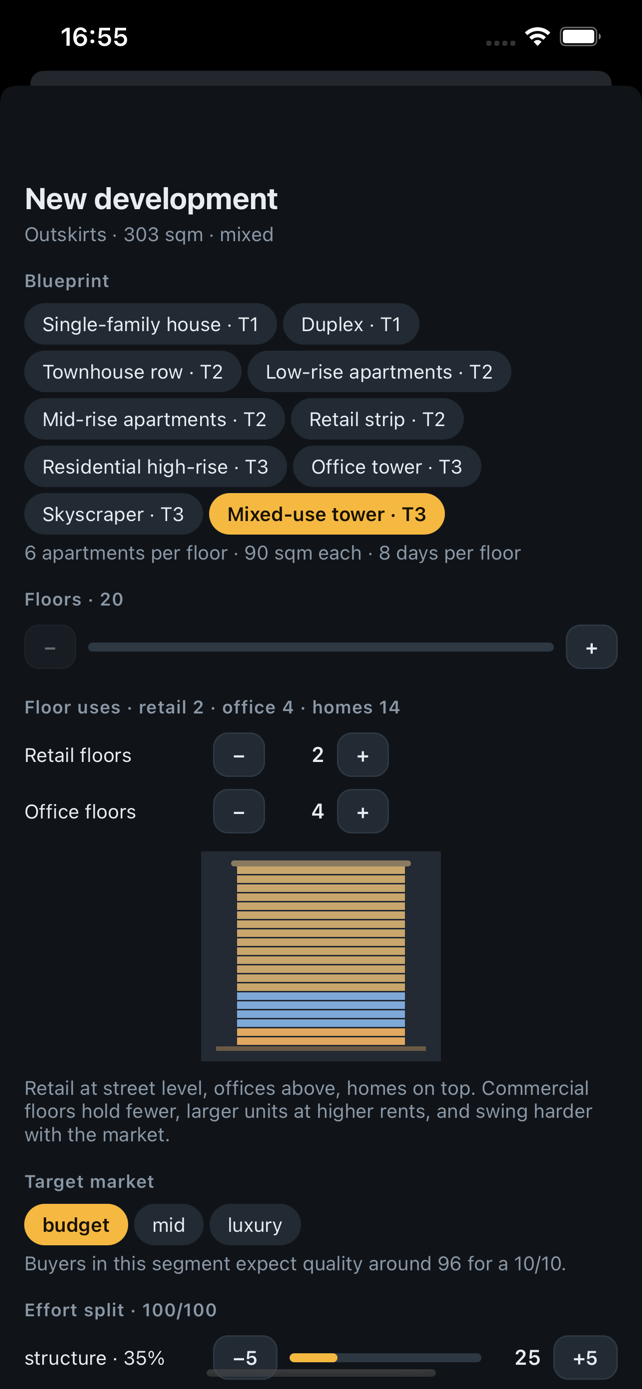
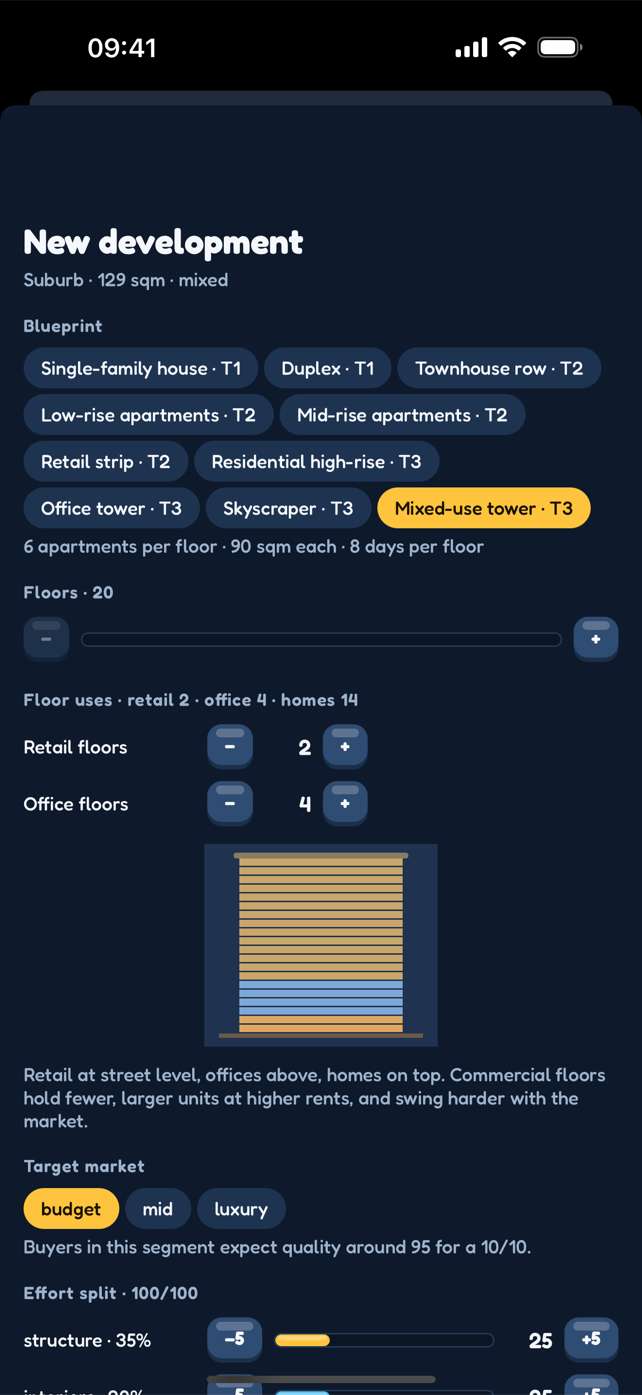
Story screenshots, current-UI gallery, Quiet-mode FAQ wording

diff --git a/support.html b/support.html
@@ -24,7 +24,7 @@
     <p><strong>How do auctions work?</strong> Bidding needs a 10% deposit, which comes back if someone outbids you. If you win, the rest of the price plus closing costs is paid when the auction closes, so keep the cash ready.</p>
     <p><strong>Why did the game end?</strong> If your cash stays below zero for 30 days, your creditors sell properties to cover the debt. If that is not enough and the company is still worth something, the bank restructures the debt once and gives you 30 more days. Otherwise, or the second time the creditors' sale falls short, the company closes. You get a warning after 15 days: sell something, take a loan against a property, or let staff go.</p>
     <p><strong>Story or Sandbox?</strong> You choose when you start a company. Story adds Dot, Sterling and the rest of Harbor City: cards with choices, letters, chapters and a Journal that keeps every line. Sandbox is the same city and economy without them. The choice belongs to that company; start a new one to try the other.</p>
-    <p><strong>Do I have to answer every story card?</strong> No. Big moments pause the game until you choose. Letters wait in the Letters inbox. Every card shows what happens if you do not answer: when its timer runs out, Dot picks the cautious option for you. In Settings, <em>Story cards: Quiet</em> lets urgent cards wait in the goal chip instead of pausing the game, and <em>Dot handles small stuff at 2x-4x</em> does the same for everyday cards when the game runs fast.</p>
+    <p><strong>Do I have to answer every story card?</strong> No. Big moments pause the game until you choose. Letters wait in the Letters inbox. Every card shows what happens if you do not answer: when its timer runs out, Dot picks the cautious option for you. In Settings, <em>Story cards: Quiet</em> lets urgent cards wait in a chip under the top bar, with a countdown, instead of pausing the game, and <em>Dot handles small stuff at 2x-4x</em> does the same for everyday cards when the game runs fast.</p>
     <p><strong>What happens to the story while I am away?</strong> Letters that run out of time are answered by Dot, and she tells you how many she handled. The catch-up stops before a chapter moment, so you never miss one.</p>
     <p><strong>What is free, and what does the purchase unlock?</strong> The home-office years are free: buying, renovating, flipping, renting, auctions, your first hire, the home-office research, and building houses and duplexes. So is Chapter One of the story, and the Kitchen Table League after it. One purchase unlocks the storefront agency, the development firm and the corporate HQ, and every building and upgrade they open. It is a one-time purchase, and there is nothing else to buy.</p>
     <p><strong>I bought the full game, but it is locked.</strong> Open Settings from the title screen or the pause menu and tap Restore purchases, signed in with the same Apple ID or Google account you bought it with. If the game says "Payment pending" or "Waiting for approval" (Ask to Buy), the payment has not gone through yet. The game unlocks by itself once it completes or is approved, even if the game was closed at the time.</p>

diff --git a/index.html b/index.html
@@ -47,7 +47,10 @@
   </div>
   <h2>Screenshots</h2>
   <div class="shots">
-    <img src="img/01-city.png" alt="The city map with listings, owned buildings and a tutorial hint">
+    <img src="img/05-story.png" alt="The opening: a Harbor Ledger headline and Dot Marchetti pointing you at 14 Birch Lane">
+    <img src="img/06-decision.png" alt="A decision card: your first tenant, Agnes, and her parrot Admiral ask for a discount">
+    <img src="img/07-letter.png" alt="A letter from your rival, Sterling Castellane, with three ways to answer">
+    <img src="img/01-city.jpg" alt="The isometric city with towers, listings and price tags (full game)">
     <img src="img/02-project.png" alt="Planning a mixed-use tower floor by floor (full game)">
     <img src="img/03-auction.png" alt="An auction room with the bid history">
     <img src="img/04-appraisal.png" alt="An appraisal grade with feedback per quality axis">
